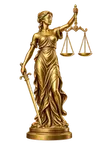
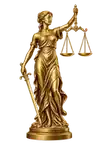
Serve correctly sized mobile brand mark

diff --git a/index.html b/index.html
@@ -124,7 +124,7 @@
     <div aria-hidden="true" class="absolute -left-6 top-40 h-56 w-56 rounded-full border border-white/10"></div>
     <header class="relative mx-auto flex max-w-6xl flex-col items-start justify-between gap-3 px-5 py-5 sm:flex-row sm:items-center sm:gap-4 sm:px-6 sm:py-6">
       <a href="/" class="flex items-center gap-3" aria-label="Головна сторінка">
-        <span class="flex h-16 w-16 shrink-0 items-center justify-center rounded-xl border border-gold/80 bg-aubergine"><img src="/assets/lady-justice-gold-v1-128.webp" srcset="/assets/lady-justice-gold-v1-96.webp 96w, /assets/lady-justice-gold-v1-128.webp 128w" sizes="80px" alt="Символ правосуддя" width="128" height="192" class="h-20 w-20 max-w-none object-contain mix-blend-screen" /></span>
+        <span class="flex h-16 w-16 shrink-0 items-center justify-center rounded-xl border border-gold/80 bg-aubergine"><img src="/assets/lady-justice-gold-v1-128.webp" srcset="/assets/lady-justice-gold-v1-96.webp 96w, /assets/lady-justice-gold-v1-128.webp 128w" sizes="53px" alt="Символ правосуддя" width="128" height="192" class="h-20 w-20 max-w-none object-contain mix-blend-screen" /></span>
         <span><strong class="block font-heading text-sm leading-tight tracking-wide text-white">ГЕРАСИМИШИНА</strong><strong class="block font-heading text-sm leading-tight tracking-wide text-white">ТЕТЯНА ВІТАЛІЇВНА</strong><small class="mt-1 block text-[10px] font-semibold uppercase tracking-[.18em] text-gold">Адвокат — м. Вінниця</small></span>
       </a>
     </header>
